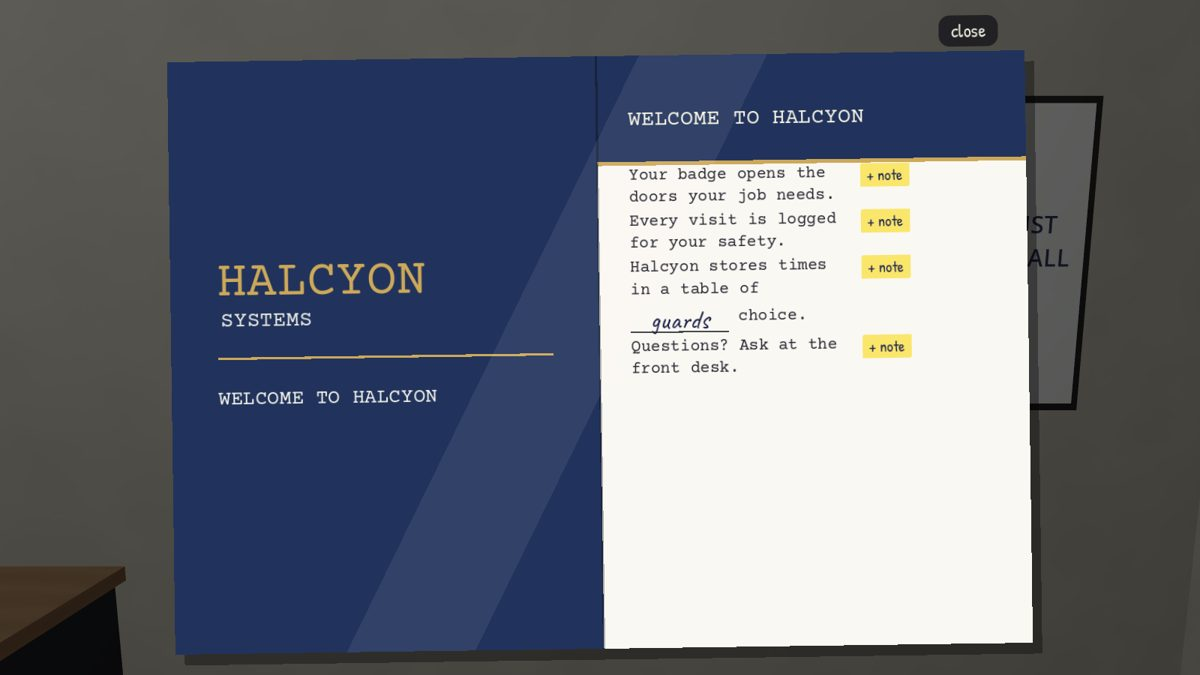
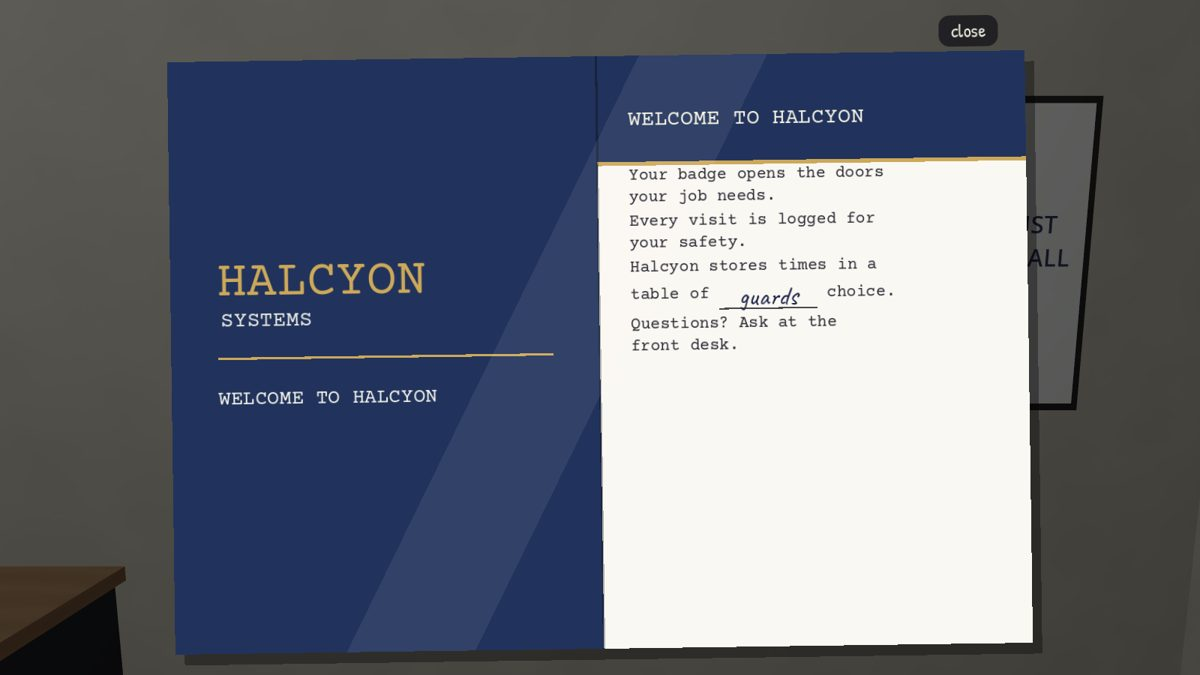
Documents: point at a line to add it to the notebook, like terminal lines
DocumentView rows drop the "+ note" buttons. Pointing at a line lays a yellow
highlighter band over it and shows a "+ add to notebook" chip in the margin
beside it, the same words as on terminal lines; the chip emits copy_requested.

Claude-Session: https://claude.ai/code/session_01AoPeaLYq4smMJXAEmkaevH

diff --git a/docs/art/style-guide.md b/docs/art/style-guide.md
@@ -80,7 +80,7 @@ Designed ahead of the mechanics (game plan, "Notebook and elevators"). Playtest 
 Where hints and table names hide in the world (game plan: in-world notes, no immersion-breaking hints). Lookdev shots: `tools/document_shots.gd`, saved in `docs/art/screenshots/documents/`.
 
 - **Props** (`ArtProps`, visual only, facing -Z like a poster): `binder(parent, pos, facing, title, open)` (open on a desk at a manual page, or closed and standing), `desk_card(...)` (a glossy laminated tent card), `brochure(..., flat_on_desk)` (a trifold, open flat or standing in an acrylic holder), `memo(..., flat_on_desk)` (two stapled sheets on a wall, a corkboard or a desk), `corkboard(parent, pos, facing, size)` (pin memos to its face at z -0.017), `clipboard(..., flat_on_desk)` (a roster under a metal clip, on a desk or a wall hook). On a desk, `pos` is the spot on the desk top (y 0.762); on a wall, the center. Each sets meta `doc_size` (Vector3) so the mechanics can size the Interactable's collider. Body text in the world is grey bars: nobody reads it from arm's length, they press E.
-- **Reading view** (`DocumentView`, CanvasLayer 15 like the notebook): the document held up close. `set_paper("memo" | "manual" | "card" | "brochure" | "clipboard")`, `set_title()`, `add_line(text)` (typed, with a "+ note" button that emits `copy_requested(text)`), `add_margin_note(text, author)` beside the last line, `add_blank(before, filled, after, author)` for a printed blank filled in by hand (its "+ note" copies the whole sentence), `clear()`, `show_doc()`, `hide_doc()`, and `closed` from its close button.
+- **Reading view** (`DocumentView`, CanvasLayer 15 like the notebook): the document held up close. `set_paper("memo" | "manual" | "card" | "brochure" | "clipboard")`, `set_title()`, `add_line(text)` (typed; pointing at it lays a yellow highlighter band over the line and shows a "+ add to notebook" chip at its right end, the same as on terminal lines, and the chip emits `copy_requested(text)`), `add_margin_note(text, author)` beside the last line, `add_blank(before, filled, after, author)` for a printed blank filled in by hand (adding it copies the whole sentence), `clear()`, `show_doc()`, `hide_doc()`, and `closed` from its close button.
 - **Two hands.** The crew writes in Patrick Hand, blue ballpoint. Harold Mercer writes in Caveat (OFL, `NotebookArt.old_hand_font()`), dark fountain-pen ink (`NotebookArt.FOUNTAIN_INK`), slanted and a size larger, and signs "- H.M." so players learn to recognize him before they know who he is.
 
 ## Held notebook and in-world screens
